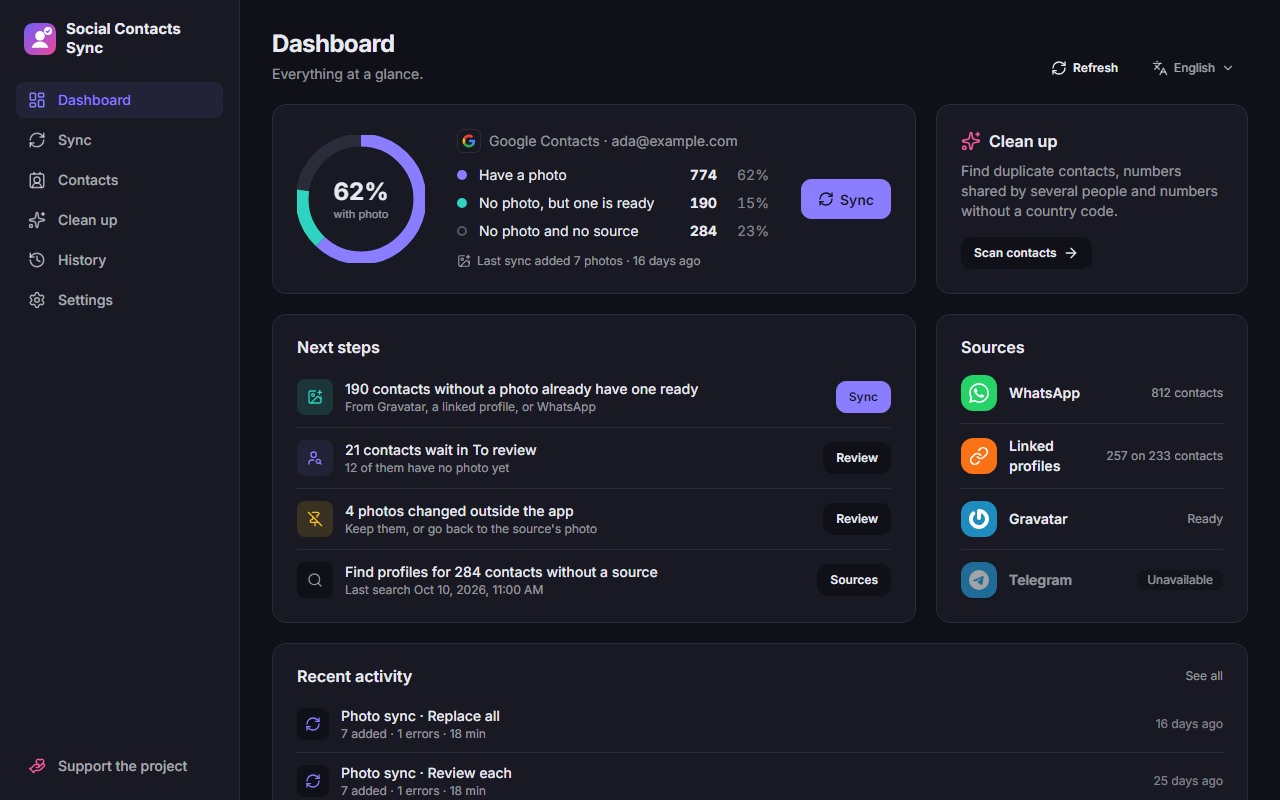
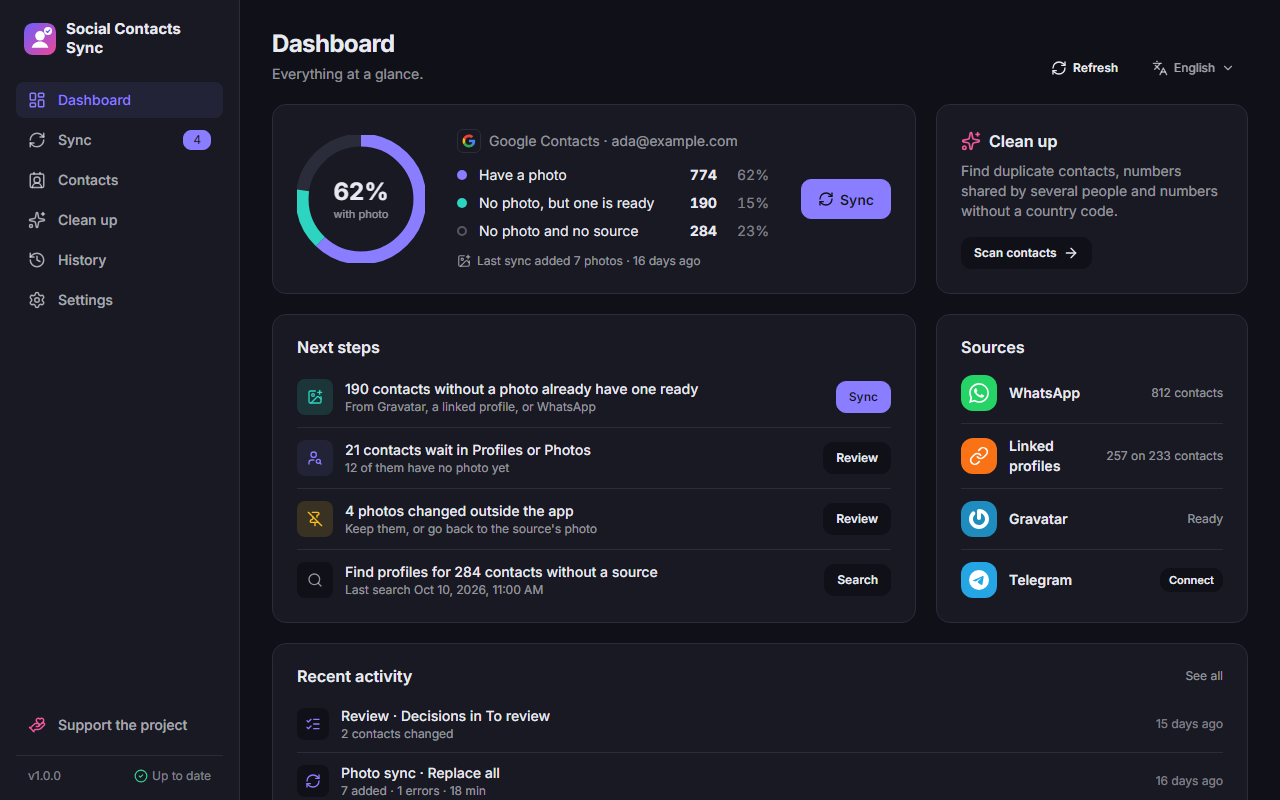
Document the Sync wizard: CHANGELOG 1.4.3, README and screenshots
The CHANGELOG names the 1.4.2 release that shipped the To review rework and
adds 1.4.3 with the wizard (#107). The README describes the steps, the single
source order and what a sync does when a source fails. The Dashboard and Sync
screenshots come from the current app, with a new one of the Summary.

diff --git a/README.md b/README.md
@@ -30,25 +30,38 @@
 ## Features
 
 - **Photos from your sources.** WhatsApp and Telegram (matched by phone number)
-  and Gravatar (matched by email), in the priority order you choose. Only your
+  and Gravatar (matched by email), with each profile network as a source of its
+  own, all in one priority order you choose. Each source shows whether it is
+  ready, and connecting or signing in is done right on its row. Only your
   existing Telegram contacts are read; nothing is added to your account.
 - **Profile links.** The X, YouTube, Bluesky, Mastodon and GitHub
   profiles saved on a contact give it their public picture, with no sign-in.
   Instagram, Facebook and LinkedIn can be turned on too, unofficially. Add a
-  link right from a sync report's "No photo found" list, or while reviewing.
+  link right from a sync report's "No photo found" list, or from Sync.
+- **Sync, step by step.** *Sources*, *Profiles*, *Sync*, *Photos*, *To search*
+  and *Summary*: skip any step but the first.
 - **A sync that applies what is safe.** It fills in missing photos and updates
-  the ones that follow a source. Everything else waits in *To review*: a
-  different photo for a contact that already has one, or a photo changed
-  outside the app. Or decide every contact yourself.
+  the ones that follow a source. Everything else waits in *Photos*: a different
+  photo for a contact that already has one, or a photo changed outside the app.
+  Or decide every contact yourself.
+- **A sync that doesn't give up.** A source that stops working is left out and
+  the sync goes on. A site that signs you out offers *Sign in again* right
+  where it happened. The *Summary* lists what didn't finish, each with its fix.
 - **Photos follow their source.** A photo picked from WhatsApp, Gravatar or a
   profile keeps following it, so later syncs bring its new picture. A photo you
   change by hand in Google is never overwritten.
-- **To review.** One card per contact, kept between sessions, including every
-  contact still without a photo. Filter by what a card needs, or search by
-  name. Tick the social profiles that are really them, and pick one photo among
-  every source and every profile; only photos sharp enough and different from
-  the current one are offered. Confirm one contact, or select many and confirm
-  them in one go. The suggestions come from:
+- **Profiles, Photos and To search.** One card per contact, kept between
+  sessions.
+  - In *Profiles*, tick the social profiles that are really them.
+  - In *Photos*, pick one photo among every source and the profiles you just
+    linked. Only photos sharp enough and different from the current one are
+    offered.
+  - *To search* holds the contacts where nothing was found: search a profile,
+    look up a link, or upload a photo.
+  - Filter by what a card needs, or search by name. Confirm one contact, or
+    select many and confirm them in one go.
+
+  The suggestions come from:
   - your own Instagram and LinkedIn data exports;
   - a public search by name on Bluesky, Mastodon and GitHub;
   - experimental and only when you start it, on the desktop app, with your
@@ -77,11 +90,13 @@
   and sign-ins are kept encrypted with your system's keychain.
 - **English and Italian; light, dark or system theme.**
 
-| To review | Run a sync |
+| Sources, in one order | A sync in progress |
 |---|---|
-| ![To review](docs/images/sync-review.png) | ![Run a sync](docs/images/sync-run.png) |
-| **Where photos come from** | **Report and undo** |
-| ![Sync sources](docs/images/sync-sources.png) | ![Sync report](docs/images/sync-report.png) |
+| ![Sync sources](docs/images/sync-sources.png) | ![A sync in progress](docs/images/sync-run.png) |
+| **Choose photos** | **Summary, with the fixes** |
+| ![Photos](docs/images/sync-review.png) | ![Summary](docs/images/sync-summary.png) |
+| **Report and undo** | |
+| ![Sync report](docs/images/sync-report.png) | |
 | **History: syncs and reviews** | **Contacts** |
 | ![History](docs/images/history.png) | ![Contacts](docs/images/contacts.png) |
 | **Edit every field, or keep a photo** | **Updates with progress** |
@@ -137,7 +152,8 @@ The packages are not code-signed yet:
 4. **Link WhatsApp** by scanning a QR code, like WhatsApp Web, and/or **sign in
    to Telegram** with your phone number and the code Telegram sends you.
    Gravatar and profile links need no sign-in.
-5. **Run a sync** from **Sync**, then go through what waits in **To review**.
+5. **Sync** walks you through it: check the sources, link the profiles found,
+   run the sync, then choose the photos it left for you.
    The dashboard says what to do next, and **Clean up** finds duplicates.
 
 Google allows about 40 photo updates per minute, so a large address book takes a
@@ -305,11 +321,11 @@ The app stays signed in between launches, unless you turn off
 | `cleanup.json` | clean-up choices, such as groups marked *Not duplicates* |
 | `placeholders.json` | which contacts have a photo uploaded by hand on the Contacts page, so a sync can replace it |
 | `kept-photos.json` | which contacts' photos are kept: the app never replaces them |
-| `profiles.json` | the people read from your exports, searches and scans, and your answers in To review |
-| `review-queue.json` | the photos a sync sent to *To review*, and the ones you turned down |
+| `profiles.json` | the people read from your exports, searches and scans, and your answers in Sync |
+| `review-queue.json` | the photos a sync left for Sync's *Photos* step, and the ones you turned down |
 | `photo-pins.json` | which source each contact's photo follows |
 | `profile-reads.json` | desktop: what was read from each pinned profile with your login, and when |
-| `review-photos/` | the profile photos shown in Sync's *To review*, so a card keeps its photo after the site's address for it expires (kept 90 days) |
+| `review-photos/` | the profile photos shown in Sync's *Profiles* and *Photos* steps, so a card keeps its photo after the site's address for it expires (kept 90 days) |
 | `update-pending.json` | for a moment while an update installs: what to do when it's done |
 | `logs/` | server logs |
 

diff --git a/CHANGELOG.md b/CHANGELOG.md
@@ -3,7 +3,59 @@
 What changed in each release of Social Contacts Sync. The packages are on the
 [releases page](https://github.com/easly1989/social-contacts-sync/releases).
 
-## Unreleased
+## 1.4.3 — 2026-10-19
+
+### Added
+
+- **Sync is a step-by-step wizard.**
+  ([#107](https://github.com/easly1989/social-contacts-sync/issues/107))
+  - The steps are *Sources*, *Profiles*, *Sync*, *Photos*, *To search* and
+    *Summary*.
+  - Every step except Sources can be skipped.
+  - Each step shows how many contacts wait in it.
+  - Sync opens on Sources, or on the sync itself while one is running.
+  - On a phone, the steps fold into a menu.
+- **Profiles before photos.** Profiles links the profiles found for each
+  contact. Photos then offers their pictures, marked *linked now*, next to the
+  photos the sync found.
+- **To search.** The contacts where no source found anything get their own
+  step. From there you can search their name with your login, look up a profile
+  link, upload a photo, or leave them without one.
+- **Summary.** It shows what the sync did and what didn't finish, each with its
+  fix: run again with only that source, sign in and read again, or open the
+  report and undo.
+
+### Changed
+
+- **One list of sources.** WhatsApp, Gravatar, Telegram and each profile
+  network share a single priority order.
+  - Each row shows its real state, such as *Connected*, *Signed in* or
+    *Session closed*.
+  - Each row has its own fix: *Connect*, *Sign in* or *Sign in again*.
+  - A network with no linked profiles waits behind *Show all* and isn't sent
+    to the sync.
+- **Desktop: sign-ins are watched live.** A site that closes the app's session
+  shows at once, with no need to restart.
+- **A sync is never stopped by one source.**
+  - A source that fails to start, or fails three times in a row, is left out.
+    The sync goes on and says so where it happens, with *Reconnect*.
+  - When a site signs the app out during the profile reads, its row offers
+    *Sign in again*, which resumes the reads in the same sync, or *Skip*.
+  - A network without a sign-in isn't read, and Sync offers the sign-in before
+    starting.
+- The sync shows two options; *Look for different photos* and *I decide every
+  contact* are under *Advanced*.
+
+### Fixed
+
+- A failed sync can always be left: *Stop* goes away and *Back* starts again.
+  Before, *Stop* did nothing and no new sync could start.
+- The photo copies kept for undo are saved at full size. They used to be
+  100 px.
+- Signing in to Google also asks for the basic profile, so the account summary
+  no longer fails with *403*.
+
+## 1.4.2 — 2026-10-19
 
 ### Added
 
